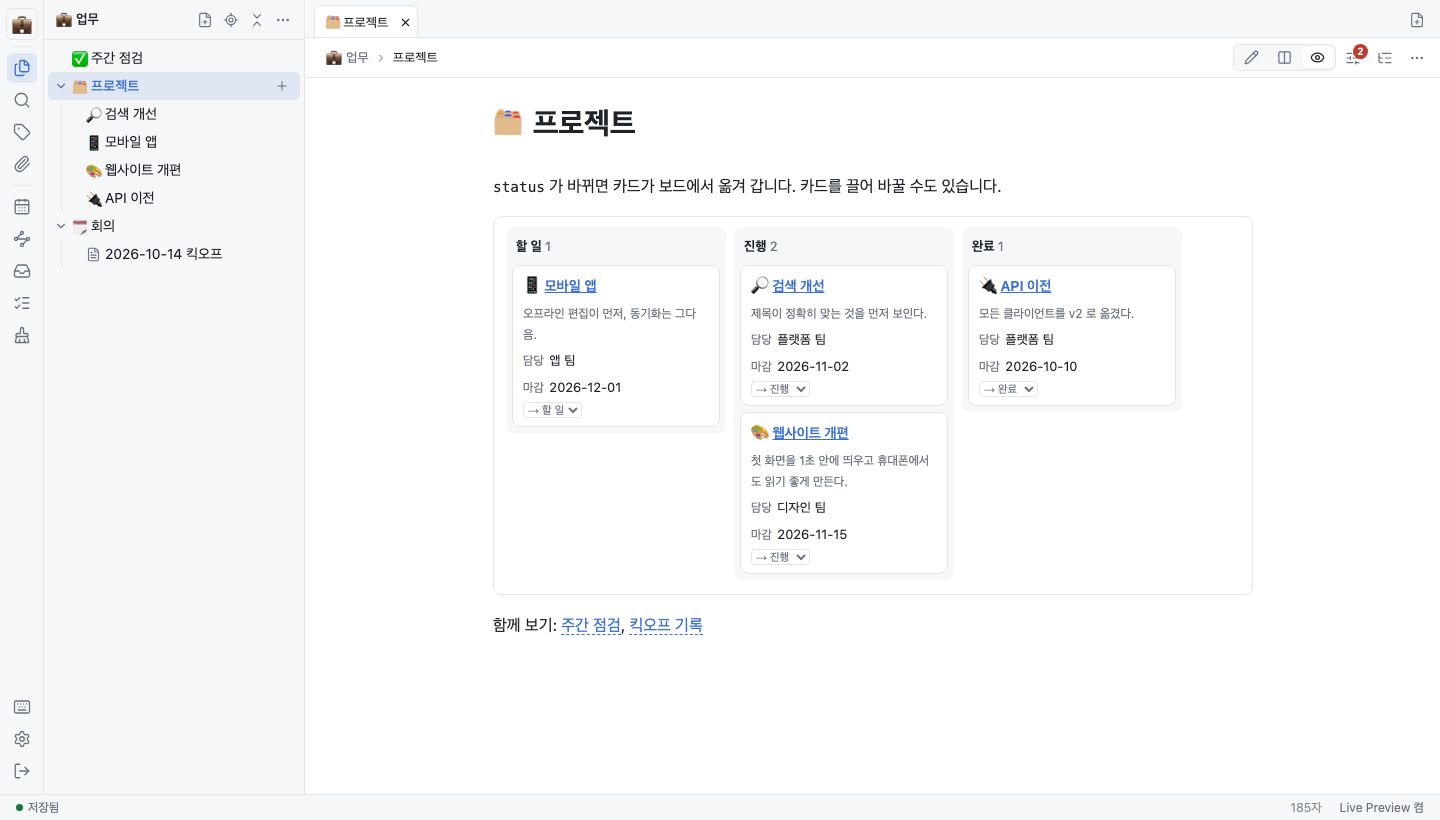
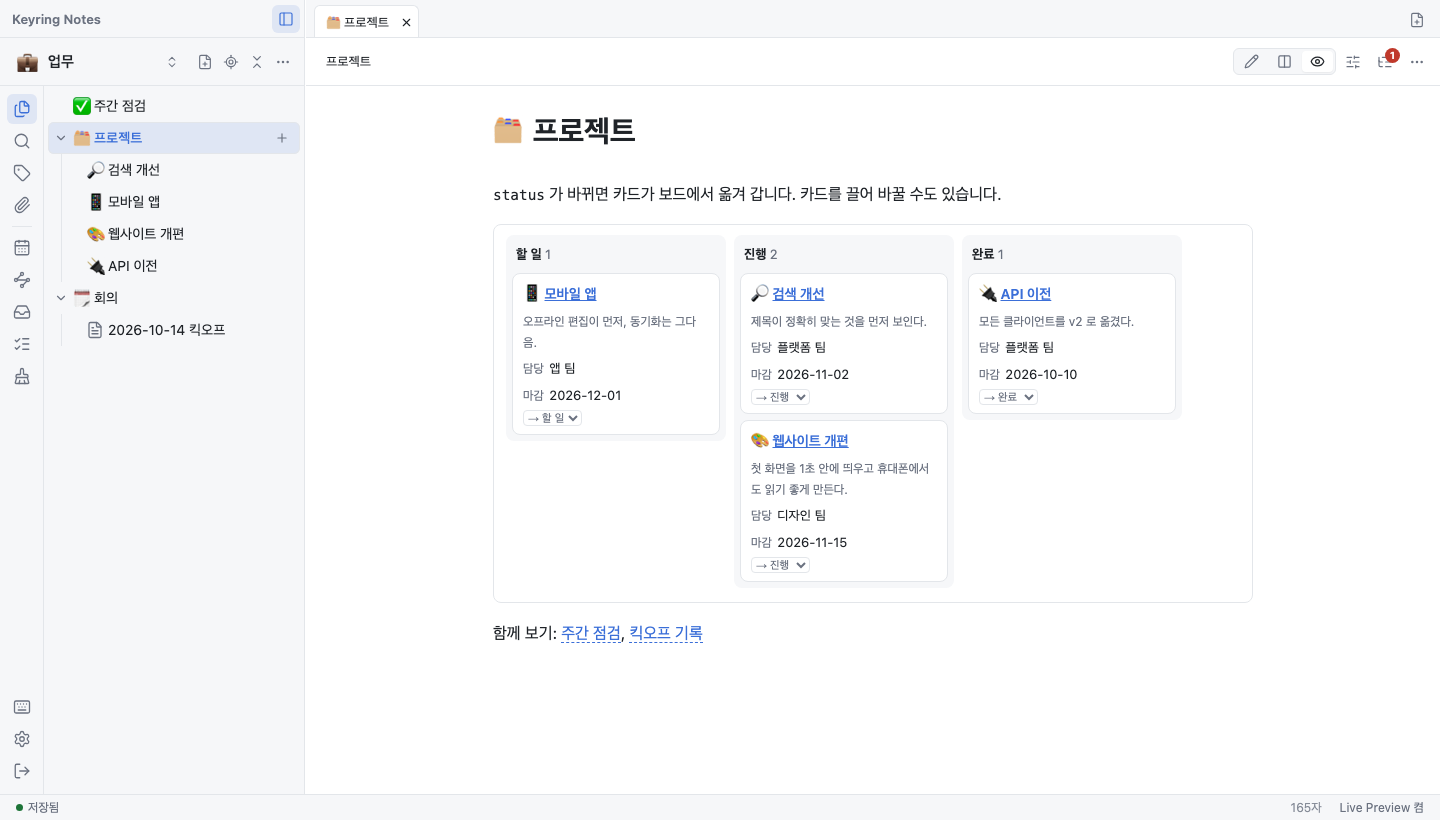
docs: 0.13.0 대표 스크린샷을 지금 UI 로 다시 찍고(en·ko 칸반 보드), CHANGELOG 날짜를 2026-11-17 로, 릴리스 가이드의 커밋 메시지 꼴과 번역 판 커밋 자리

diff --git a/CHANGELOG.md b/CHANGELOG.md
@@ -4,7 +4,7 @@ All notable user-facing changes to Keyring Notes are listed here. The server and
 
 ## [Unreleased]
 
-## [0.13.0] - 2026-11-16
+## [0.13.0] - 2026-11-17
 
 ### Added
 
